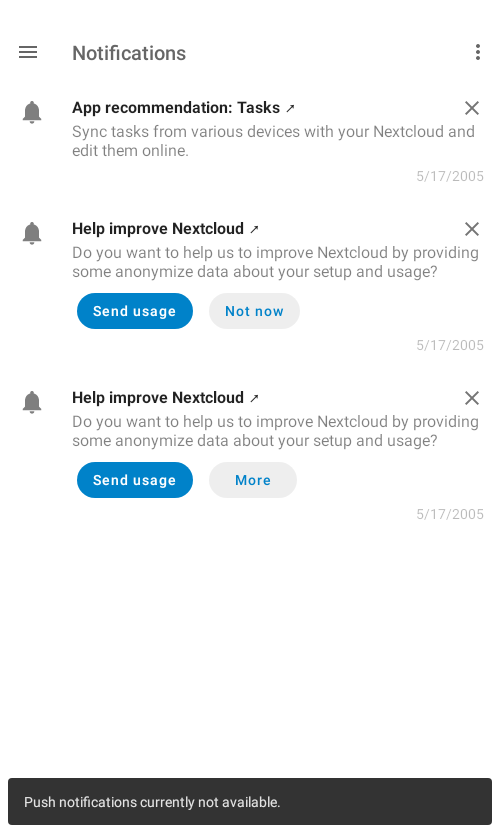
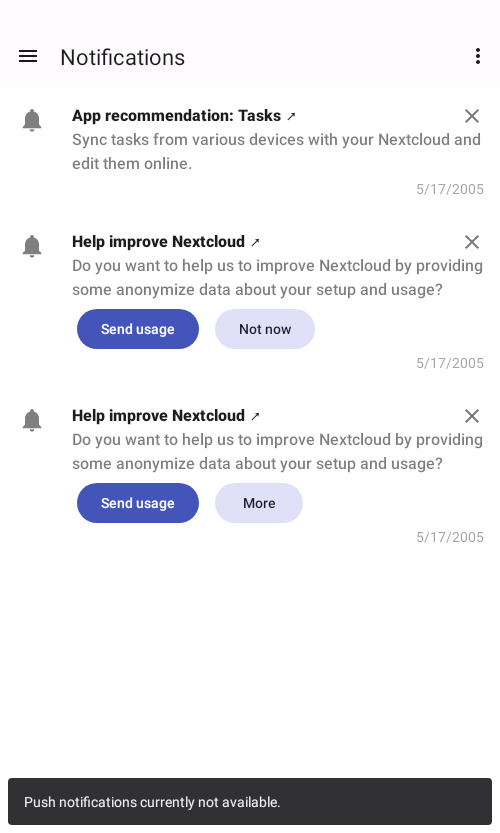
Fix screenshot tests for m3: NotificationsActivityIT

diff --git a/app/src/main/java/com/owncloud/android/ui/adapter/NotificationListAdapter.java b/app/src/main/java/com/owncloud/android/ui/adapter/NotificationListAdapter.java
@@ -167,7 +167,6 @@ public class NotificationListAdapter extends RecyclerView.Adapter<NotificationLi
     public void setButtons(NotificationViewHolder holder, Notification notification) {
         // add action buttons
         holder.binding.buttons.removeAllViews();
-        MaterialButton button;
 
         Resources resources = notificationsActivity.getResources();
         LinearLayout.LayoutParams params = new LinearLayout.LayoutParams(LinearLayout.LayoutParams.WRAP_CONTENT,
@@ -183,7 +182,7 @@ public class NotificationListAdapter extends RecyclerView.Adapter<NotificationLi
         if (notification.getActions().size() > 2) {
             for (Action action : notification.getActions()) {
                 if (action.primary) {
-                    button = new MaterialButton(notificationsActivity);
+                    final MaterialButton button = new MaterialButton(notificationsActivity);
                     button.setAllCaps(false);
 
                     button.setText(action.label);
@@ -217,20 +216,19 @@ public class NotificationListAdapter extends RecyclerView.Adapter<NotificationLi
             }
 
             // further actions
-            button = new MaterialButton(notificationsActivity);
-            viewThemeUtils.material.colorMaterialButtonPrimaryOutlined(button);
+            final MaterialButton moreButton = new MaterialButton(notificationsActivity);
+            viewThemeUtils.material.colorMaterialButtonPrimaryTonal(moreButton);
 
-            button.setAllCaps(false);
+            moreButton.setAllCaps(false);
 
-            button.setText(R.string.more);
-            button.setCornerRadiusResource(R.dimen.button_corner_radius);
+            moreButton.setText(R.string.more);
+            moreButton.setCornerRadiusResource(R.dimen.button_corner_radius);
 
-            button.setLayoutParams(params);
-            button.setGravity(Gravity.CENTER);
+            moreButton.setLayoutParams(params);
+            moreButton.setGravity(Gravity.CENTER);
 
-            MaterialButton finalButton = button;
-            button.setOnClickListener(v -> {
-                PopupMenu popup = new PopupMenu(notificationsActivity, finalButton);
+            moreButton.setOnClickListener(v -> {
+                PopupMenu popup = new PopupMenu(notificationsActivity, moreButton);
 
                 for (Action action : overflowActions) {
                     popup.getMenu().add(action.label).setOnMenuItemClickListener(item -> {
@@ -256,15 +254,15 @@ public class NotificationListAdapter extends RecyclerView.Adapter<NotificationLi
                 popup.show();
             });
 
-            holder.binding.buttons.addView(button);
+            holder.binding.buttons.addView(moreButton);
         } else {
             for (Action action : notification.getActions()) {
-                button = new MaterialButton(notificationsActivity);
+                final MaterialButton button = new MaterialButton(notificationsActivity);
 
                 if (action.primary) {
                     viewThemeUtils.material.colorMaterialButtonPrimaryFilled(button);
                 } else {
-                    viewThemeUtils.material.colorMaterialButtonPrimaryOutlined(button);
+                    viewThemeUtils.material.colorMaterialButtonPrimaryTonal(button);
                 }
 
                 button.setAllCaps(false);
@@ -296,11 +294,6 @@ public class NotificationListAdapter extends RecyclerView.Adapter<NotificationLi
             }
         }
     }
-
-    private void handleItemClick() {
-
-    }
-
 
     private SpannableStringBuilder makeSpecialPartsBold(Notification notification) {
         String text = notification.getSubjectRich();
